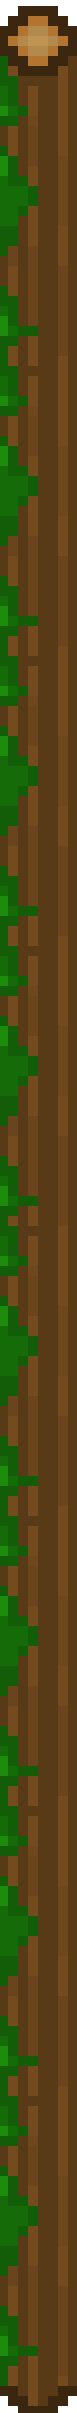
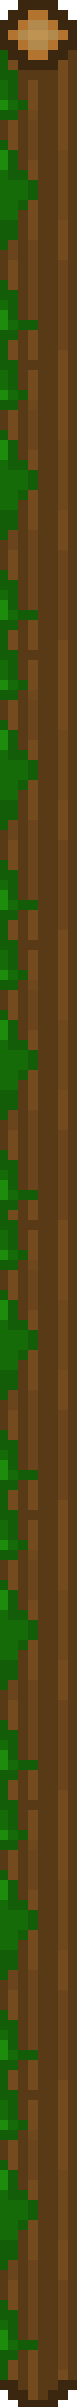
Small pipe changes

diff --git a/style.css b/style.css
@@ -81,7 +81,7 @@ body {
 .pipe {
     position: absolute;
     width: 77px;
-    height: 2413px;
+    height: 2407px;
 }
 
 .top_pipe {
